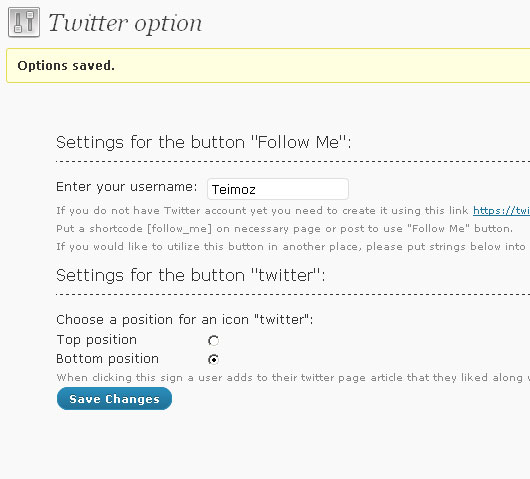
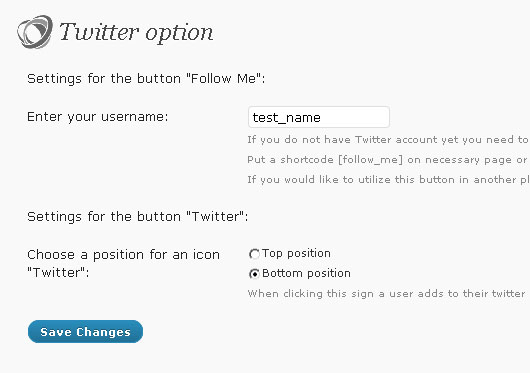
git-svn-id: https://plugins.svn.wordpress.org/twitter-plugin/trunk@404867 b8457f37-d9ea-0310-8a92-e5e31aec5664

diff --git a/twitter.php b/twitter.php
@@ -4,7 +4,7 @@ Plugin Name: Twitter Plugin
 Plugin URI:  http://bestwebsoft.com/plugin/
 Description: Plugin to add a link to the page author to twitter.
 Author: BestWebSoft
-Version: 1.04
+Version: 2.01
 Author URI: http://bestwebsoft.com/
 License: GPLv2 or later
 */
@@ -28,58 +28,133 @@ License: GPLv2 or later
 
 //add settings links
 
-if( !function_exists( twitter_settings ) ) {
-	function twitter_settings( $links, $file ) {
-		$base = plugin_basename( __FILE__ );
-		if ( $file == $base ) {
-			$links[] = '<a href="admin.php?page=twitter">' . __( 'Settings', 'Settings' ) . '</a>';
-		}
-		return $links;
+if( ! function_exists( 'bws_add_menu_render' ) ) {
+	function bws_add_menu_render() {
+		global $title;
+		?>
+		<div class="wrap">
+			<div class="icon32 icon32-bws" id="icon-options-general"></div>
+			<h2><?php echo $title;?></h2>
+			<p><a href="http://wordpress.org/extend/plugins/captcha/">Captcha</a></p>
+			<p><a href="http://wordpress.org/extend/plugins/contact-form-plugin/">Contact Form</a></p>
+			<p><a href="http://wordpress.org/extend/plugins/facebook-button-plugin/">Facebook Like Button Plugin</a></p>
+			<p><a href="http://wordpress.org/extend/plugins/twitter-plugin/">Twitter Plugin</a></p>
+			<p><a href="http://wordpress.org/extend/plugins/portfolio/">Portfolio</a></p>
+			<span style="color: rgb(136, 136, 136); font-size: 10px;">If you have any questions, please contact us via plugin@bestwebsoft.com or fill in our contact form on our site <a href="http://bestwebsoft.com/contact/">http://bestwebsoft.com/contact/</a></span>
+		</div>
+		<?php
 	}
 }
-//add settings links.End.
+
+if( ! function_exists( 'bws_plugin_header' ) ) {
+	function bws_plugin_header() {
+		global $post_type;
+		?>
+		<style>
+		#adminmenu #toplevel_page_my_new_menu div.wp-menu-image
+		{
+			background: url("<?php echo get_bloginfo('url');?>/wp-content/plugins/twitter-plugin/images/icon_16.png") no-repeat scroll center center transparent;
+		}
+		#adminmenu #toplevel_page_my_new_menu:hover div.wp-menu-image,#adminmenu #toplevel_page_my_new_menu.wp-has-current-submenu div.wp-menu-image
+		{
+			background: url("<?php echo get_bloginfo('url');?>/wp-content/plugins/twitter-plugin/images/icon_16_c.png") no-repeat scroll center center transparent;
+		}	
+		.wrap #icon-options-general.icon32-bws
+		{
+			background: url("<?php echo get_bloginfo('url');?>/wp-content/plugins/twitter-plugin/images/icon_36.png") no-repeat scroll left top transparent;
+		}
+		</style>
+		<?php
+	}
+}
+
+add_action('admin_head', 'bws_plugin_header');
+
+// Register settings for plugin
+if( ! function_exists( 'twttr_settings' ) ) {
+	function twttr_settings() {
+		global $twttr_options_array;
+
+		$twttr_options_array_defaults = array(
+			'url_twitter' => 'admin',
+			'position' => ''
+		);
+
+		if( ! get_option( 'twttr_options_array' ) )
+			add_option( 'twttr_options_array', $twttr_options_array_defaults, '', 'yes' );
+
+		$twttr_options_array = get_option( 'cntctfrm_options' );
+
+		$twttr_options_array = array_merge( $twttr_options_array_defaults, $twttr_options_array );
+	}
+}
 
 //add meny
-if(!function_exists ( 'twitter_mt_add_pages' ) ) {
-	function twitter_mt_add_pages() {
-		add_options_page ( 'Twitter', 'Twitter', 8, 'twitter', 'twitter_form' );
+if(!function_exists ( 'twttr_add_pages' ) ) {
+	function twttr_add_pages() {
+		//add_options_page ( 'Twitter', 'Twitter', 8, 'twitter', 'twitter_form' );
+		add_menu_page(__('BWS Plugins'), __('BWS Plugins'), 'edit_themes', 'my_new_menu', 'bws_add_menu_render', " ", 90); 
+		add_submenu_page('my_new_menu', 'Twitter Options', 'Twitter', 'edit_themes', __FILE__, 'twttr_settings_page');
+
+		//call register settings function
+		add_action( 'admin_init', 'twttr_settings' );
 	}
 }
 //add meny.End
 		
 //add.Form meny.
-if (!function_exists ( 'twitter_form' ) ) {
-	function twitter_form () { ?>
-		<div class="wrap">
-			<div id="icon-options-general" class="icon32">
-			</div>
-			<h2>Twitter option</h2>
-		<?php if ( isset ( $_REQUEST['position'] ) && isset ( $_REQUEST['url_twitter'] ) ) {
-			$url_twitter = $_REQUEST['url_twitter'];
-			update_option ( "url_twitter" , $url_twitter );
-			$position = $_REQUEST['position'];
-			update_option ( "position", $position );?>
+if (!function_exists ( 'twttr_settings_page' ) ) {
+	function twttr_settings_page () {
+		global $twttr_options_array;
+		if ( isset ( $_REQUEST['twttr_position'] ) && isset ( $_REQUEST['twttr_url_twitter'] ) ) {
+			$twttr_options_array['twttr_url_twitter'] = $_REQUEST['twttr_url_twitter'];
+			$twttr_options_array['twttr_position'] = $_REQUEST['twttr_position'];
+			update_option ( "twttr_options_array", $twttr_options_array );?>
 			<div class='updated fade below-h2'>
 				<p>
 					<strong>Options saved.</strong>
 				</p>
 			</div>
-		<?php }?>
-			<div style='margin:50px 0 0 50px;'>
-				<form method='post' action=" admin.php?page=twitter ">
-					<div style="font-size:16px;border-bottom:1px dashed;padding-bottom:10px;margin-bottom:15px;">Settings for the button "Follow Me":</div>
-					<div style="width:150px;float:left;">Enter your username:</div>
-					<input name='url_twitter' type='text' value='<?php echo get_option("url_twitter") ?>'/>
-					<div style="color: rgb(136, 136, 136); font-size: 10px;clear:both;">If you do not have Twitter account yet you need to create it using this link <a target="_blank" href="https://twitter.com/signup">https://twitter.com/signup</a> .</div>
-					<div style="color: rgb(136, 136, 136); font-size: 10px;clear:both;">Put a shortcode [follow_me] on necessary page or post to use "Follow Me" button.</div>
-					<div style="color: rgb(136, 136, 136); font-size: 10px;clear:both;">If you would like to utilize this button in another place, please put strings below into the template source code 	&#60;?php if ( function_exists( 'follow_me' ) ) echo follow_me(); ?&#62;</div>
-					<div style="font-size:16px;border-bottom:1px dashed;padding:10px 0 10px 0;">Settings for the button "twitter":</div>
-					<div style="clear:both;margin:15px 0 2px 0;">Choose a position for an icon "twitter":</div>
-					<div style="width:150px;float:left;">Top position</div><input style="margin-top:5px;" type="radio" name="position" value="1" <?php if ( get_option( "position", $position ) == 1 ) echo 'checked="checked"'?> />
-					<div style="clear:both;"></div>
-					<div style="width:150px;float:left;">Bottom position</div><input style="margin-top:5px;" type="radio" name="position" value="0" <?php if ( get_option( "position", $position ) == 0 ) echo 'checked="checked"'?> />
-					<div style="color: rgb(136, 136, 136); font-size: 10px;clear:both;">When clicking this sign a user adds to their twitter page article that they liked along with a link to it.</div>
-					<input class="button-primary" type="submit" value="Save Changes" />
+		<?php } ?>
+		<div class="wrap">
+			<div class="icon32 icon32-bws" id="icon-options-general"></div>
+			<h2>Twitter option</h2>
+			<div>
+				<form method='post' action=" admin.php?page=twitter-plugin/twitter.php">
+					<table class="form-table">
+						<tr valign="top">
+							<th scope="row" colspan="2">Settings for the button "Follow Me":</th>
+						</tr>					
+						<tr valign="top">
+							<th scope="row">
+								Enter your username:
+							</th>
+							<td>
+								<input name='twttr_url_twitter' type='text' value='<?php echo $twttr_options_array['twttr_url_twitter'] ?>'/><br />
+								<span style="color: rgb(136, 136, 136); font-size: 10px;">If you do not have Twitter account yet you need to create it using this link <a target="_blank" href="https://twitter.com/signup">https://twitter.com/signup</a> .</span><br />
+								<span style="color: rgb(136, 136, 136); font-size: 10px;">Put a shortcode [follow_me] on necessary page or post to use "Follow Me" button.</span><br />
+								<span style="color: rgb(136, 136, 136); font-size: 10px;">If you would like to utilize this button in another place, please put strings below into the template source code 	&#60;?php if ( function_exists( 'follow_me' ) ) echo follow_me(); ?&#62;</span>
+							</td>
+						</tr>
+						<tr valign="top">
+							<th scope="row" colspan="2">Settings for the button "Twitter":</th>
+						</tr>					
+						<tr>
+							<th>
+								Choose a position for an icon "Twitter":
+							</th>
+							<td>
+								<input style="margin-top:5px;" type="radio" name="twttr_position" value="1" <?php if ( $twttr_options_array['twttr_position'] == 1 ) echo 'checked="checked"'?> /><label for="twttr_position">Top position</label><br />
+								<input style="margin-top:5px;" type="radio" name="twttr_position" value="1" <?php if ( $twttr_options_array['twttr_position'] == 0 ) echo 'checked="checked"'?> /><label for="twttr_position">Bottom position</label><br />
+								<span style="color: rgb(136, 136, 136); font-size: 10px;">When clicking this sign a user adds to their twitter page article that they liked along with a link to it.</span><br />
+							</td>
+						</tr>
+						<tr>
+						<td colspan="2">
+							<input type="submit" value="Save Changes" class="button-primary">
+						</td>
+					</tr>
+					</table>
 				</form>
 			</div>
 		</div>
@@ -89,8 +164,8 @@ if (!function_exists ( 'twitter_form' ) ) {
 //add.Form meny.End.	
 	
 // score code[follow_me]
-if (!function_exists('follow_me')){
-	function follow_me() {
+if (!function_exists('twttr_follow_me')){
+	function twttr_follow_me() {
 		return '<a href="http://twitter.com/'.get_option("url_twitter").'" target="_blank" title="Follow me">
 				 <img src="'.get_option('home').'/wp-content/plugins/twitter-plugin/images/twitter-follow.gif" alt="Follow me" />
 			  </a>';
@@ -99,8 +174,8 @@ if (!function_exists('follow_me')){
 
 	
 //Positioning in the page	
-if(!function_exists( 'twitter_twit' ) ) {
-	function twitter_twit( $content ) {
+if(!function_exists( 'twttr_twit' ) ) {
+	function twttr_twit( $content ) {
 	global $post;
 	$permalink_post = get_permalink($post_ID);
 	$title_post = $post->post_title;
@@ -121,11 +196,39 @@ if(!function_exists( 'twitter_twit' ) ) {
 }
 //Positioning in the page.End.
 
-add_filter( 'plugin_row_meta', 'twitter_settings', 10, 2 );
-add_filter( "the_content", "twitter_twit" );
 
-add_action ( 'admin_menu', 'twitter_mt_add_pages' );
+function twttr_action_links( $links, $file ) {
+		//Static so we don't call plugin_basename on every plugin row.
+	static $this_plugin;
+	if ( ! $this_plugin ) $this_plugin = plugin_basename(__FILE__);
 
-add_shortcode( 'follow_me', 'follow_me' );
+	if ( $file == $this_plugin ){
+			 $settings_link = '<a href="admin.php?page=twitter-plugin/twitter.php">' . __('Settings', 'twitter-plugin') . '</a>';
+			 array_unshift( $links, $settings_link );
+		}
+	return $links;
+} // end function fcbk_bttn_plgn_action_links
+
+function twttr_links($links, $file) {
+	$base = plugin_basename(__FILE__);
+	if ($file == $base) {
+		$links[] = '<a href="admin.php?page=twitter-plugin/twitter.php">' . __('Settings','twitter-plugin') . '</a>';
+		$links[] = '<a href="http://wordpress.org/extend/plugins/twitter-plugin/faq/" target="_blank">' . __('FAQ','twitter-plugin') . '</a>';
+		$links[] = '<a href="Mailto:plugin@bestwebsoft.com">' . __('Support','twitter-plugin') . '</a>';
+	}
+	return $links;
+}
+
+// adds "Settings" link to the plugin action page
+add_filter( 'plugin_action_links', 'twttr_action_links',10,2);
+
+//Additional links on the plugin page
+add_filter( 'plugin_row_meta', 'twttr_links',10,2);
+
+add_filter( "the_content", "twttr_twit" );
+
+add_action ( 'admin_menu', 'twttr_add_pages' );
+
+add_shortcode( 'follow_me', 'twttr_follow_me' );
 
 ?>
